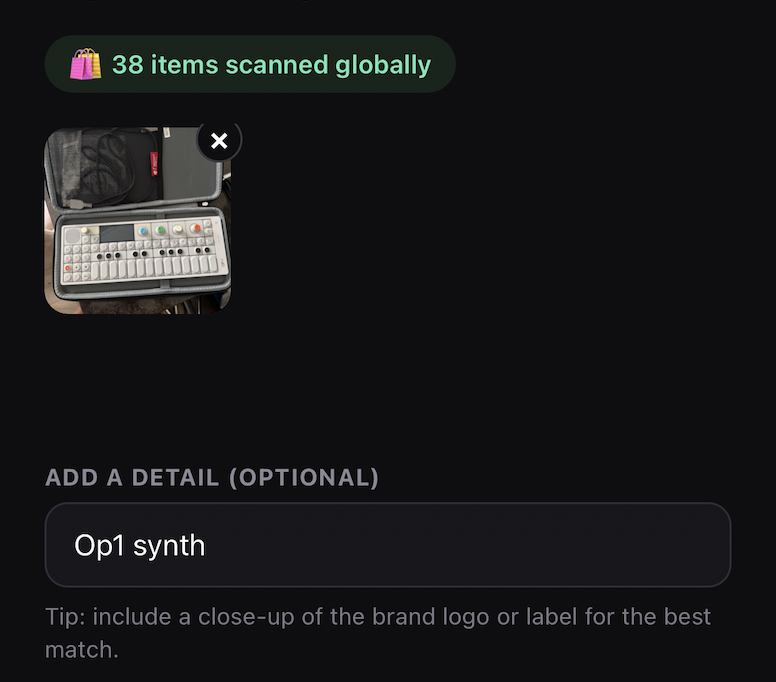
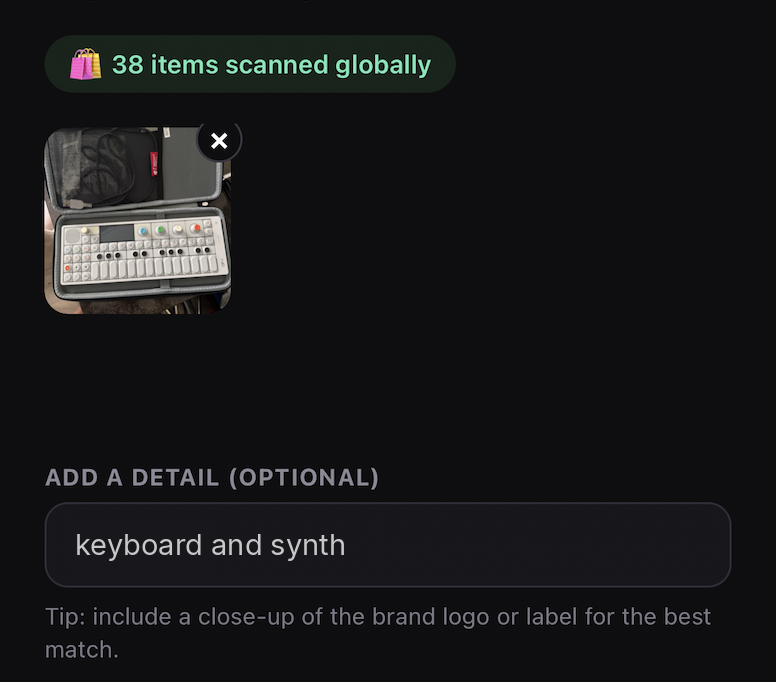
Swap the Loot Check detail shot for the keyboard and synth one
Also drops the sample paper line and its crop from Paper Reader.

Claude-Session: https://claude.ai/code/session_01STNC7Ur8pVa9td3oe3hhfT

Changed region(s): [[0.0928, 0.7698, 0.433, 0.8314]]

diff --git a/src/data/case-studies.ts b/src/data/case-studies.ts
@@ -128,7 +128,7 @@ export const caseStudies: Record<string, CaseStudy> = {
         type: "image",
         src: "/projects/loot-check-detail-input.png",
         width: 388,
-        alt: "The optional detail field under a photo of an OP-1 in its case, with \"Op1 synth\" typed in and a tip to include a close-up of the brand logo",
+        alt: "The optional detail field under a photo of an OP-1 in its case, with \"keyboard and synth\" typed in and a tip to include a close-up of the brand logo",
       },
       {
         type: "text",
@@ -235,17 +235,6 @@ export const caseStudies: Record<string, CaseStudy> = {
           },
         ],
       },
-      {
-        type: "text",
-        text: "I included a sample paper so users can test before setting up an API key.",
-      },
-      {
-        type: "image",
-        src: "/projects/paper-reader-sample-detail.png",
-        width: 367,
-        alt: "The sample paper's row in My Papers, marked SAMPLE above its title, 77 per cent listened, and a play button on its right",
-      },
-
       
       // (total samples / 24,000 = total seconds)
       // (characters in each sentence / group total characters = % of group text)
